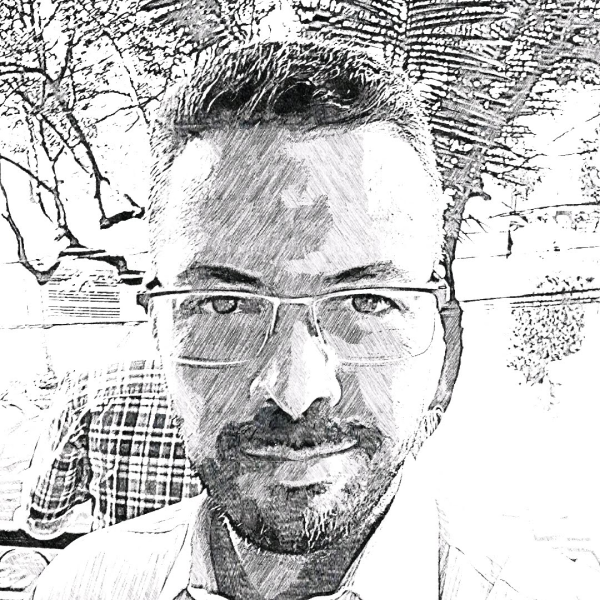
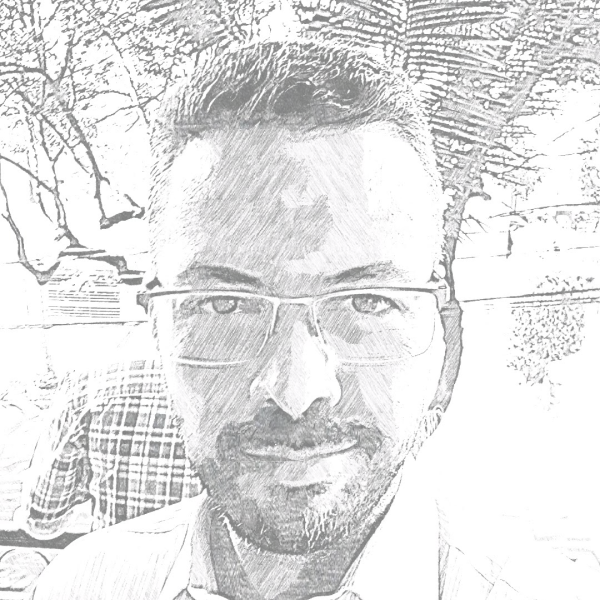
Renaming about.mdx to .js and adding button with resumen in the about page

diff --git a/src/pages/about.js b/src/pages/about.js
@@ -1,0 +1,58 @@
+import React from "react"
+import SiteLayout from "../components/site-layout"
+import { graphql } from "gatsby"
+import Img from "gatsby-image"
+
+const AboutPage = ({ data }) => {
+  return (
+    <SiteLayout className="page-about">
+      <h1>Hola, Soy Mario</h1>
+      <div className="row">
+        <div className="col-sm-6">
+          <p>
+            I’m an Electric Engeneer turned Software Developer that is addicted
+            to technology news, and that hates to do the same thing twice.
+          </p>
+          <p>For more than 20 years I’ve worked in serveral areas of IT:</p>
+          <ul>
+            <li>WebMaster</li>
+            <li>Linux and Solaris server Management</li>
+            <li>Oracle DBA</li>
+            <li>PL/SQL Developer</li>
+            <li>Backend Developer</li>
+            <li>Front End Developer</li>
+            <li>UX Lead</li>
+            <li>Scrum Master</li>
+            <li>Product Owner</li>
+          </ul>
+        </div>
+        <div className="col-sm-6">
+          <Img fluid={data.file.childImageSharp.fluid} />
+        </div>
+      </div>
+      <div className="text-center pt-5 pb-5">
+        <a
+          href="https://docs.google.com/document/d/1lP4DPa3Pztid-yCrT8chuKTm_6SRp0Lo7PTq_dmfKI0/export?format=pdf"
+          class="btn btn-lg btn-danger"
+        >
+          Download my Rèsumè
+        </a>
+      </div>
+    </SiteLayout>
+  )
+}
+
+export const query = graphql`
+  {
+    file(base: { eq: "img-mario-lado.jpg" }) {
+      absolutePath
+      childImageSharp {
+        fluid {
+          ...GatsbyImageSharpFluid
+        }
+      }
+    }
+  }
+`
+
+export default AboutPage

diff --git a/src/components/_page-index.scss b/src/components/_page-index.scss
@@ -3,13 +3,14 @@
 .page-index .site-header {
   background-color: $pink;
   color: $body-bg;
+
   a {
     color: $body-bg;
-
     &:after {
       background-color: $body-bg;
     }
   }
+
   svg path {
     fill: $body-bg;
   }
@@ -30,6 +31,5 @@
 
   .gatsby-image-wrapper {
     border-radius: 50%;
-    opacity: 50%;
   }
 }

diff --git a/src/components/layout.scss b/src/components/layout.scss
@@ -17,6 +17,7 @@ $site-footer-height: 60px;
 @import "~bootstrap/scss/mixins";
 @import "~bootstrap/scss/reboot";
 @import "~bootstrap/scss/grid";
+@import "~bootstrap/scss/buttons";
 @import "~bootstrap/scss/utilities";
 
 // Styling
